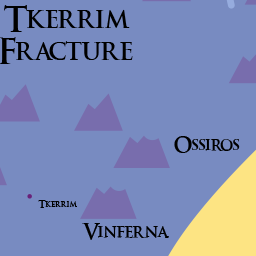
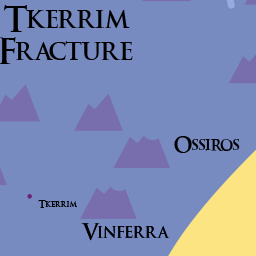
fixing borked names on the map (oops!)

Changed region(s): [[0.3125, 0.875, 0.6562, 0.9375]]

diff --git a/index.html b/index.html
@@ -224,8 +224,8 @@
     var mv_osivin = L.marker([32.593106, -23.763428], {icon: marvIcon}).on('click', function () {
         sidebar.show();
         document.getElementById("intro").hidden=true;
-        sidebar.setContent("<img src='https://via.placeholder.com/770x400'><h1>Osiris & Vinferra</h1><i>The Shattered Mountains. The summits of these sacred mountains were destroyed by a beam of light coming from The Glimmer while it was being constructed.</i><hr><p>Placeholder Text</p>");})
-    mv_osivin.bindPopup(L.popup().setContent("<b><h3>Osiris & Vinferra</h3></b><i>The Shattered Mountains. The summits of these sacred mountains were destroyed by a beam of light coming from The Glimmer while it was being constructed.</i><br><br>Click to see more"));
+        sidebar.setContent("<img src='https://via.placeholder.com/770x400'><h1>Ossiros & Vinferra</h1><i>The Shattered Mountains. The summits of these sacred mountains were destroyed by a beam of light coming from The Glimmer while it was being constructed.</i><hr><p>Placeholder Text</p>");})
+    mv_osivin.bindPopup(L.popup().setContent("<b><h3>Ossiros & Vinferra</h3></b><i>The Shattered Mountains. The summits of these sacred mountains were destroyed by a beam of light coming from The Glimmer while it was being constructed.</i><br><br>Click to see more"));
     var mv_olmara = L.marker([-47.709762, -1.043701], {icon: marvIcon}).on('click', function () {
         sidebar.show();
         document.getElementById("intro").hidden=true;
